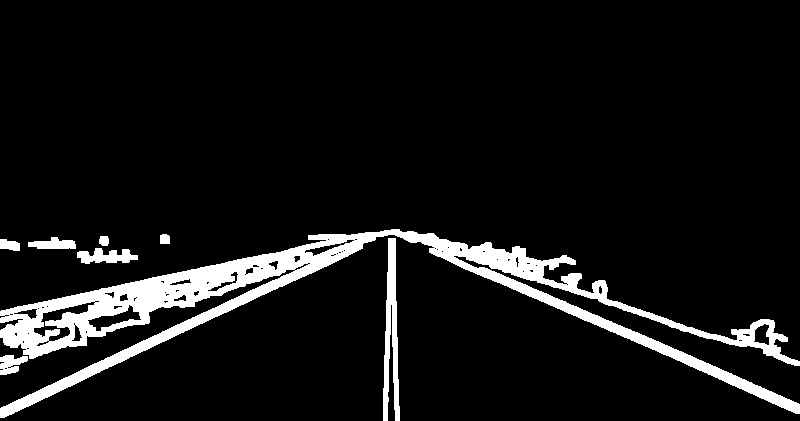
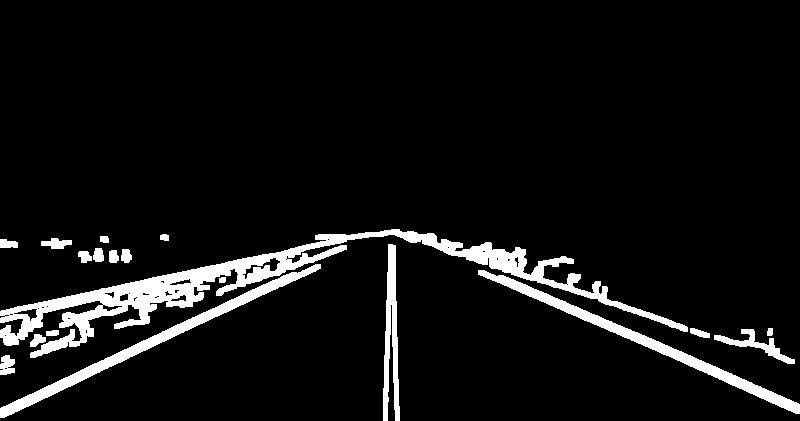
second ver

diff --git a/Br_fist_projest/test.py b/Br_fist_projest/test.py
@@ -33,27 +33,38 @@ for i in range(1, 4):
     filtered_imgs.append(filtered)
     cv2.imwrite(f"{output_dir}/filtered_{i}.jpg", filtered)
 
+#自適應直方圖均衡化
+clahe_imgs = []
+clahe = cv2.createCLAHE(clipLimit=2.0, tileGridSize=(8, 8))
+for i in range(1, 4):
+    gray = cv2.cvtColor(filtered_imgs[i-1], cv2.COLOR_BGR2GRAY)
+    clahe_img = clahe.apply(gray)
+    clahe_imgs.append(clahe_img)
+    cv2.imwrite(f"{output_dir}/clahe_{i}.jpg", clahe_img)
+
 # 邊緣檢測
 
 low_threshold = 180
-high_threshold = 100
+high_threshold = 150
 
 edges_imgs = []
 for i in range(1, 4):
     gray = cv2.cvtColor(filtered_imgs[i-1], cv2.COLOR_BGR2GRAY)
     
-    # Sobel 邊緣檢測
-    sobelx = cv2.Sobel(gray, cv2.CV_64F, 1, 0, ksize=5)
-    sobely = cv2.Sobel(gray, cv2.CV_64F, 0, 1, ksize=5)
-    cv2.imwrite(f"{output_dir}/sobelx_{i}.jpg", sobelx)
-    cv2.imwrite(f"{output_dir}/sobely_{i}.jpg", sobely)
+    # # Sobel 邊緣檢測
+    # sobelx = cv2.Sobel(gray, cv2.CV_64F, 1, 0, ksize=5)
+    # sobely = cv2.Sobel(gray, cv2.CV_64F, 0, 1, ksize=5)
+    # cv2.imwrite(f"{output_dir}/sobelx_{i}.jpg", sobelx)
+    # cv2.imwrite(f"{output_dir}/sobely_{i}.jpg", sobely)
 
-    # Laplacian 邊緣檢測
-    laplacian = cv2.Laplacian(gray, cv2.CV_64F , 1)
-    cv2.imwrite(f"{output_dir}/laplacian_{i}.jpg", laplacian)
+    # # Laplacian 邊緣檢測
+    # laplacian = cv2.Laplacian(gray, cv2.CV_64F , 1)
+    # cv2.imwrite(f"{output_dir}/laplacian_{i}.jpg", laplacian)
 
     # Canny 邊緣檢測
+    edges = cv2.Canny(clahe_imgs[i-1], low_threshold, high_threshold)
     edges = cv2.Canny(filtered_imgs[i-1], low_threshold, high_threshold)
+
     edges_imgs.append(edges)
     cv2.imwrite(f"{output_dir}/edges_{i}.jpg", edges)
 
@@ -86,10 +97,11 @@ for i in range(1, 4):
     edges = edges_imgs[i-1]
     erosion = erosion_imgs[i-1]
     lines = cv2.HoughLinesP(edges, 1, np.pi/180, 100, minLineLength=175, maxLineGap=7)
+    # lines = cv2.HoughLinesP(erosion, 1, np.pi/180, 100, minLineLength=175, maxLineGap=7)
     if lines is not None:
         for line in lines:
             x1, y1, x2, y2 = line[0]
-            cv2.line(img, (x1, y1), (x2, y2), (0, 255, 0), 2)
+            cv2.line(img, (x1, y1), (x2, y2), (0, 255, 0), 4)
     else:
         print(f"無法檢測到直線 {i}.jpg")
     cv2.imwrite(f"{output_dir}/hough_{i}.jpg", img)
